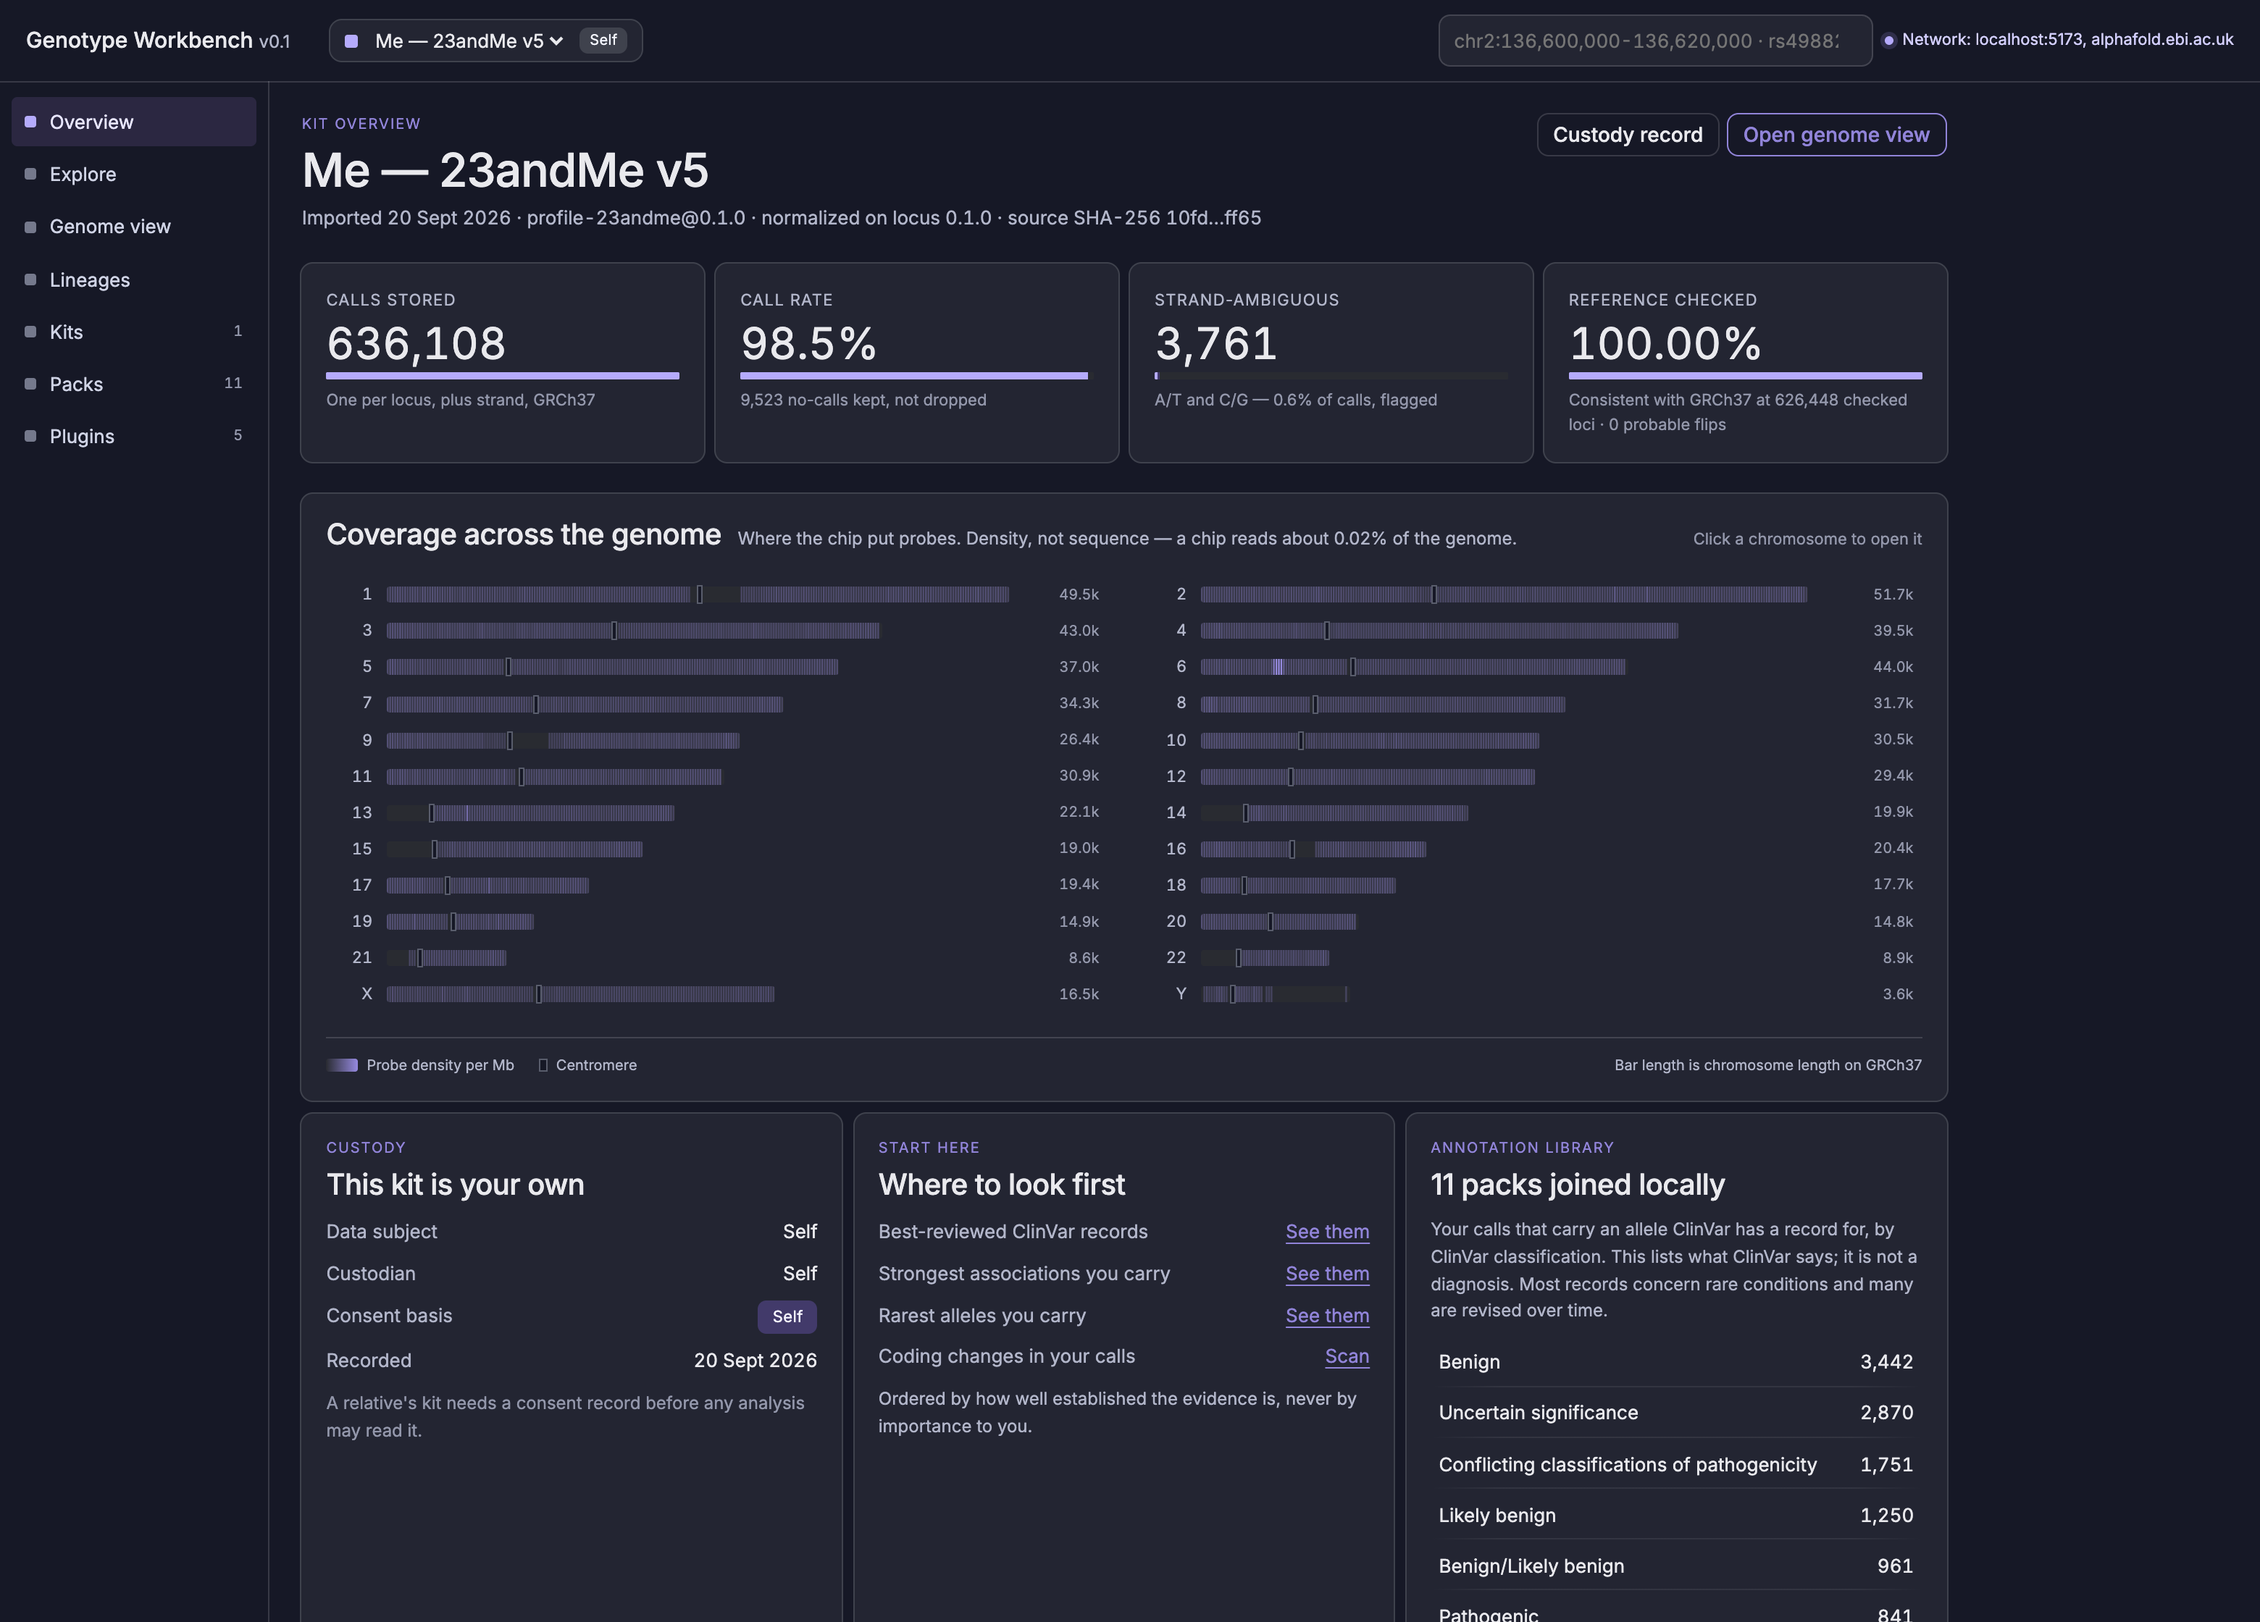
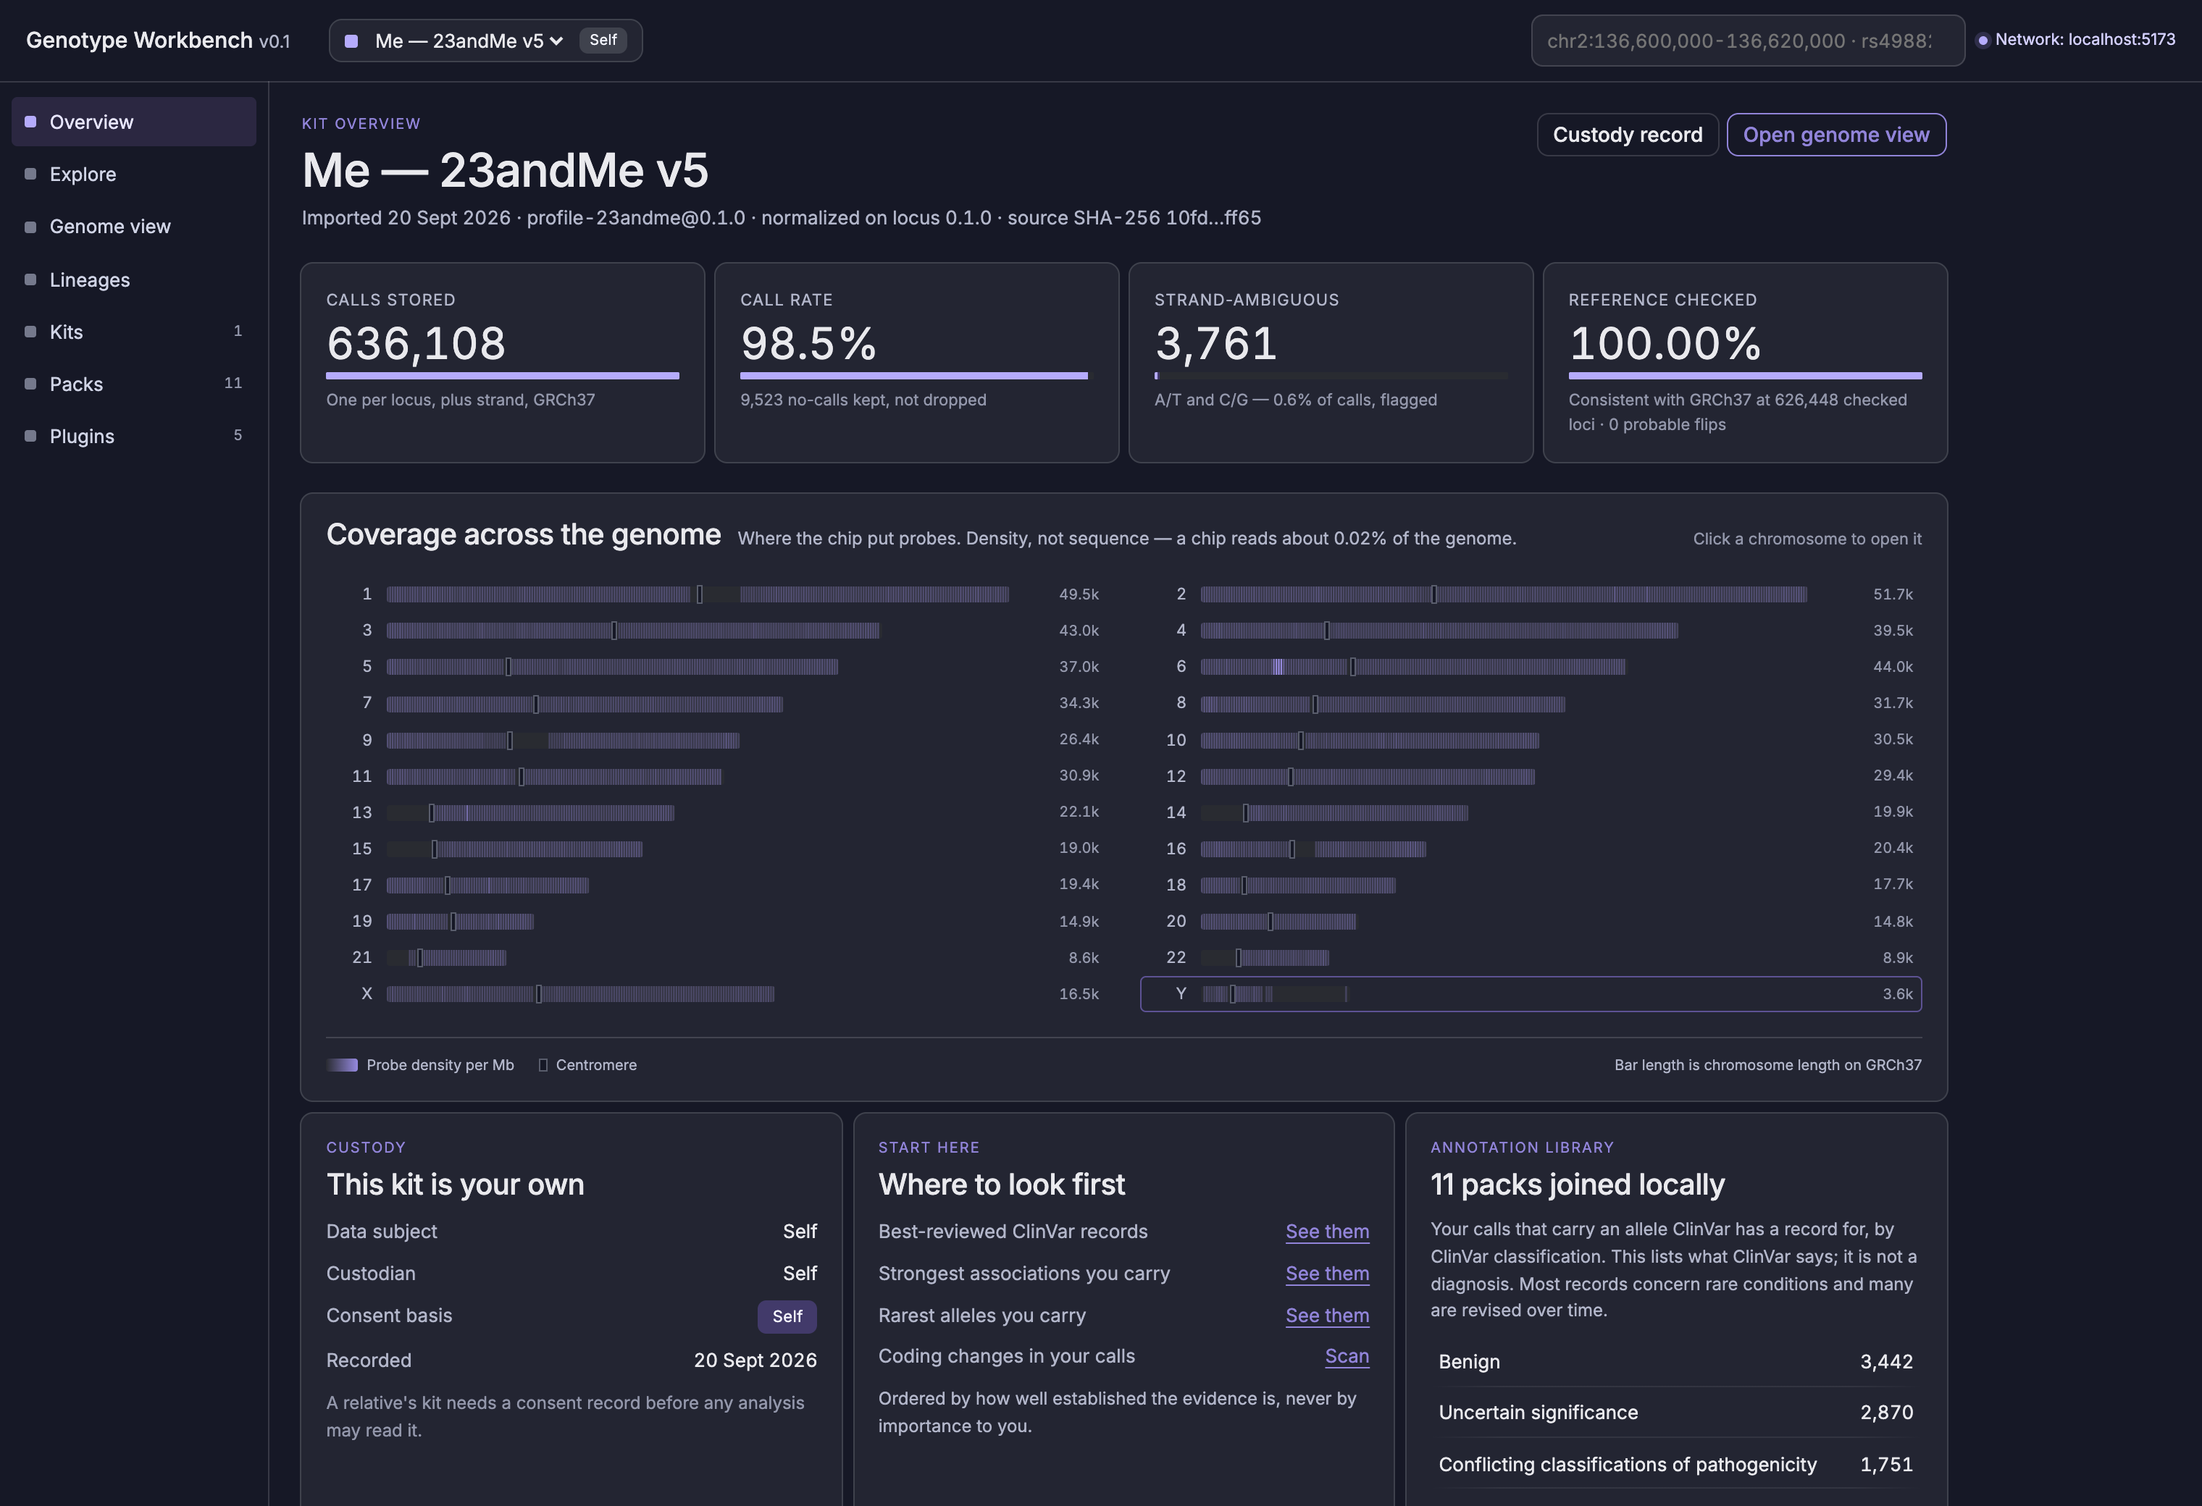
README: a screenshot for every feature, from the new layout
Captured from a synthetic kit with all eleven packs installed, scrolling
the detail dock into view and loading the 3D structure first, since both
sit below the fold and the structure needs a click.

Import, Explore, overview, tracks, the detail dock, sequence and codons,
the protein in 3D, lineages, packs, the grant dialog, and the ClinVar
list. The pack table moved next to the Packs screenshot.

diff --git a/README.md b/README.md
@@ -2,38 +2,54 @@
 
 A local-first workbench for your own raw DNA file. Import a 23andMe export, explore it on a genome view, and join it to public databanks that arrive as whole downloaded packs. Everything runs in your browser: the file is never uploaded, and nothing reaches the network unless you grant it.
 
-![Genome view: tracks across the full width, with the selected position's details docked underneath](docs/screenshots/genome.png)
+![The genome view: your calls, gene models, ClinVar classifications, GWAS associations, population frequency, the reference sequence and the protein, each drawn in its own evidence form](docs/screenshots/genome-tracks.png)
 
-| Explore: where to start | Overview |
-| --- | --- |
-| ![Explore page: best-reviewed ClinVar records, strongest associations, rarest alleles, coding changes, and a gene search](docs/screenshots/explore.png) | ![Kit overview with call statistics and probe coverage per chromosome](docs/screenshots/overview.png) |
-
-One zoom runs from the chromosome to the bases and the codons; a coding position names its residue and shows it in the protein.
-
-| Sequence and protein in the same view | Residue in 3D |
-| --- | --- |
-| ![Tracks zoomed to 81 bases: calls as letters, reference sequence, and the codons of MTHFR](docs/screenshots/scales.png) | ![The consequence card: MTHFR p.Ala222Val with the residue marked in the AlphaFold structure](docs/screenshots/structure.png) |
-
-<sub>Screenshots show a synthetic kit (random genotypes on real chip positions), never a real person's DNA.</sub>
+<sub>Every screenshot shows a synthetic kit (random genotypes on real chip positions), never a real person's DNA.</sub>
 
 Design and decisions live in [`docs/`](docs/): [Core architecture](docs/Core%20architecture.md), [Decisions](docs/Decisions(1).md), [Scientific domains](docs/Scientific%20domains.md), the [ADRs](docs/adr/) and the Nocturne design system with the UI mockups.
 
-## Iteration 1: what works
+## What it does
 
-- **Import.** A 23andMe raw data file (chips v3–v5, build 37) is read and normalized in a Web Worker by the Rust `locus` normalizer compiled to WASM, in about 1–2 s for a 640k-row v5 file. Every call is checked against the GRCh37 reference base. Strand-ambiguous (A/T, C/G) calls are flagged, no-calls are kept, and duplicate probes are merged. A custody record (data subject, custodian, consent basis) is required before the kit is stored.
-- **Storage.** Each kit is a Parquet file in the browser's Origin Private File System, queried with DuckDB-WASM. Kits and packs survive reloads.
-- **Overview.** Call statistics, reference consistency, probe coverage per chromosome, custody, your calls per ClinVar classification, and a card pointing at where to look first.
-- **Explore.** Starting points drawn from your own calls: best-reviewed ClinVar records, strongest associations you carry an allele for, rarest alleles, coding changes translated on the device, and a gene search. Ordered by how well established the evidence is, never by how important it might be for you.
-- **Genome view.** Tracks run the full width, and selecting a position opens a dock underneath with the call, the classification, frequencies, the protein and its 3D structure side by side. A canvas track view (`plugins/view-tracks`) draws each track in its evidence kind's form: measured calls, documentary gene models, curated ClinVar classifications, GWAS associations, and population frequencies. You can pan, zoom, click to select, and search by region, rsID (including retired rsIDs) or gene. Wide windows switch to binned density. The selected-position panel lists every source strongest evidence first, with ClinVar conditions explained through Mondo.
-- **Sequence and protein.** Keep zooming and the tracks become the reference bases, your own called bases, and the codons of the gene in view. Select a coding position and the panel names the residue and what the allele changes it to (for example MTHFR p.Ala222Val), computed on this device from GENCODE coding blocks and the GRCh37 sequence.
-- **3D structure.** Mol* shows the protein's predicted shape from AlphaFold with that residue marked. The structure is fetched once per protein, only after you grant it, and then kept on this device.
-- **Lineages.** Maternal-line (mtDNA, PhyloTree 17) and paternal-line (Y, YFull YTree) haplogroups, matched on this device and shown with the markers that support them.
-- **Packs.** Packs are built by `tools/packkit` (Python + DuckDB, normalized through the same Rust code via `locus-py`) and listed in an Ed25519-signed index. The app downloads each pack whole after a network grant, checks its SHA-256, and joins it locally. Before downloading, it checks that the site's storage quota can hold the pack.
+**Import.** A 23andMe raw data file (chips v3–v5, build 37) is read and normalized in a Web Worker by the Rust `locus` normalizer compiled to WASM, in about 1–2 s for a 640k-row v5 file. Every call is checked against the GRCh37 reference base. Strand-ambiguous (A/T, C/G) calls are flagged, no-calls are kept, and duplicate probes are merged. A custody record — whose DNA, who imported it, on what basis — is required before the kit is stored.
+
+![Import: the normalization report, with call rate, strand-ambiguous count and reference checks, above the custody record it requires](docs/screenshots/import.png)
+
+**Explore.** Starting points drawn from your own calls by joining them with the installed packs. Ordered by how well established the evidence is — review status, p-value, allele frequency — never by how important it might be for you. Includes a gene search that counts your calls per gene.
+
+![Explore: best-reviewed ClinVar records, strongest associations, rarest alleles, coding changes, and a gene search showing MTHFR with 21 calls](docs/screenshots/explore.png)
+
+**Overview.** Call statistics, reference consistency, probe coverage per chromosome, the custody record, your calls per ClinVar classification, and a card pointing at where to look first.
+
+![Kit overview: 636,108 calls, 98.5% call rate, 100% reference consistency, probe density per chromosome, custody and starting points](docs/screenshots/overview.png)
+
+**The genome view.** Tracks run the full width, each drawn in its evidence kind's form, so an association never looks like a classification. Pan, zoom, click to select, and search by region, rsID (including retired ones) or gene. Wide windows switch to binned density.
+
+**The detail dock.** Selecting a position opens a panel beneath the tracks: your call and how it was checked, the classification with its conditions, each frequency pack, the protein, and the associations in a row below — side by side rather than stacked in a column.
+
+![The detail dock for rs1801133: the call, ClinVar with its conditions, 1000 Genomes frequency by population, and the protein card offering to fetch the structure](docs/screenshots/genome-dock.png)
+
+**Sequence and protein.** Keep zooming and the tracks become the reference bases, your own called bases as letters, and the codons of the gene in view.
+
+![At 101 bases: a heterozygous call shown as stacked letters, the reference sequence, and MTHFR's codons with their amino acids](docs/screenshots/sequence.png)
+
+**3D structure.** A coding position names its residue and what the allele changes it to, computed here from GENCODE coding blocks and the GRCh37 sequence. Mol\* then shows the residue in the protein's predicted shape, after you grant the one request it takes.
+
+![MTHFR p.Ala222Val: codon 222 reads GCC in the reference and GTC with A, with residue 222 marked in the AlphaFold structure](docs/screenshots/genome-protein.png)
+
+**Lineages.** Maternal-line (mtDNA, PhyloTree 17) and paternal-line (Y, YFull YTree) haplogroups, matched on this device, shown with the markers that support them and what the chip could not read.
+
+![Lineages: the best-matching mtDNA and Y haplogroups, with positions read, markers carried, and each tree's licence](docs/screenshots/lineages.png)
+
+**Packs.** Public databanks arrive as whole packs from a signed index, each with its licence, size, row count and source. One button installs everything on offer; the app checks the site's storage quota first.
+
+![The Packs page: eleven packs with licence, evidence kind, size and citation, and an Install all button](docs/screenshots/packs.png)
 
 | Pack | Role | Evidence kind | Licence |
 | --- | --- | --- | --- |
 | GRCh37 reference at chip loci (core) | reference | documentary | Public domain |
 | GENCODE 50 genes, lifted to GRCh37 | genes | documentary | Open access |
+| GRCh37 sequence at coding exons and chip loci | sequence | documentary | Public domain |
+| UniProt reviewed human proteome | proteins | documentary | CC BY 4.0 |
 | ClinVar | classification | curated classification | CC0 |
 | GWAS Catalog (lifted to GRCh37) | association | statistical association | CC0 |
 | 1000 Genomes phase 3 frequencies | frequency | population frequency | Open |
@@ -41,10 +57,18 @@ Design and decisions live in [`docs/`](docs/): [Core architecture](docs/Core%20a
 | Mondo condition names | conditions | documentary | CC BY 4.0 |
 | dbSNP rsID merges | rsid-merges | documentary | Public domain |
 | HapMap II genetic map | genetic-map | estimate | Public |
-| GRCh37 sequence at coding exons and chip loci | sequence | documentary | Public domain |
-| UniProt reviewed human proteome | proteins | documentary | CC BY 4.0 |
 | PhyloTree 17 mtDNA tree | haplotree-mt | documentary | MIT packaging |
 | YFull YTree + YBrowse positions | haplotree-y | documentary | CC BY 4.0 + unverified |
+
+They are built by `tools/packkit` (Python + DuckDB, normalized through the same Rust code via `locus-py`). The app downloads each pack whole, checks its SHA-256 against the signed index, and joins it locally: no variant is ever looked up remotely.
+
+**Every network request is asked for.** A pack download or a structure request names the host, the size, what is sent (nothing about you) and which kits are read (none).
+
+![The grant dialog: host, purpose, size, storage left, and that nothing about you is sent](docs/screenshots/grant.png)
+
+**What ClinVar says about your calls.** Positions where your call carries an allele a ClinVar record classifies, strongest evidence first: review status, then the strongest association at the same position.
+
+![The ClinVar list: records ordered by review status with the strongest GWAS association at each position](docs/screenshots/clinvar.png)
 
 Information, not diagnosis: the app shows what sources say, with citations. It computes no risk score.
 
